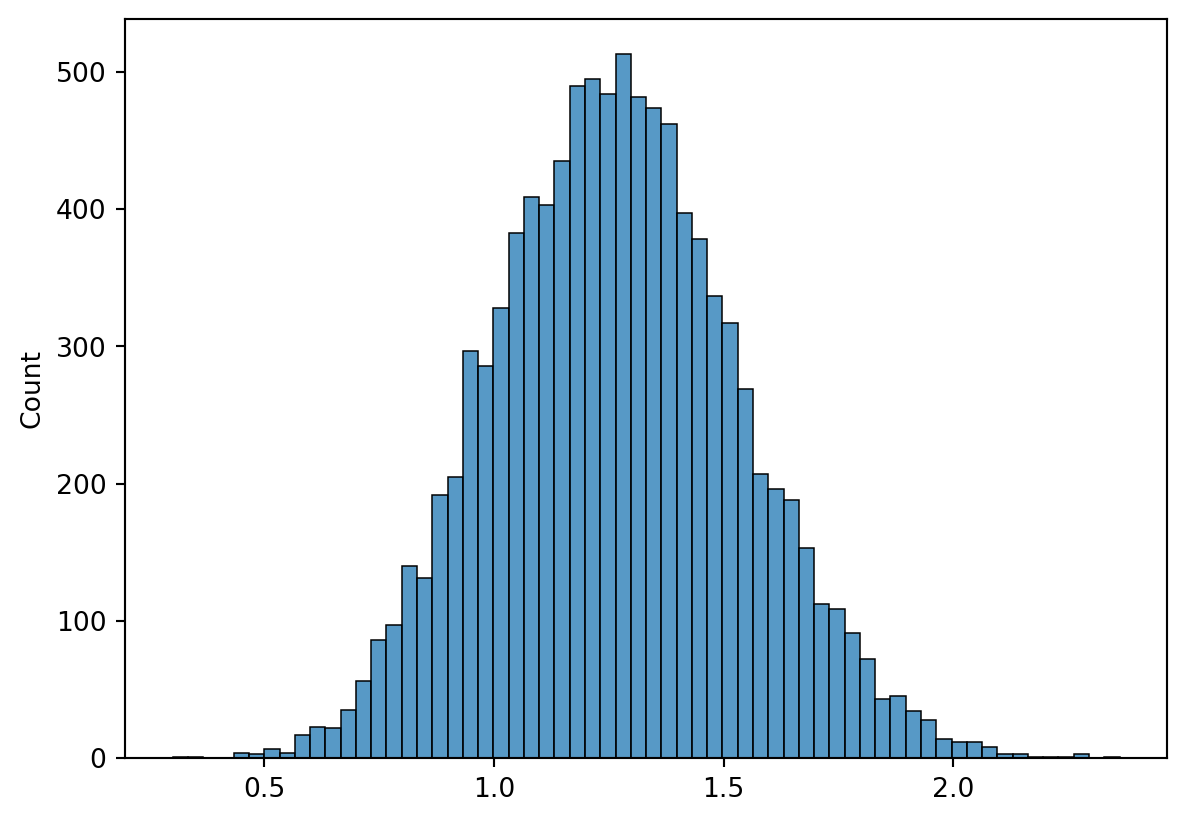
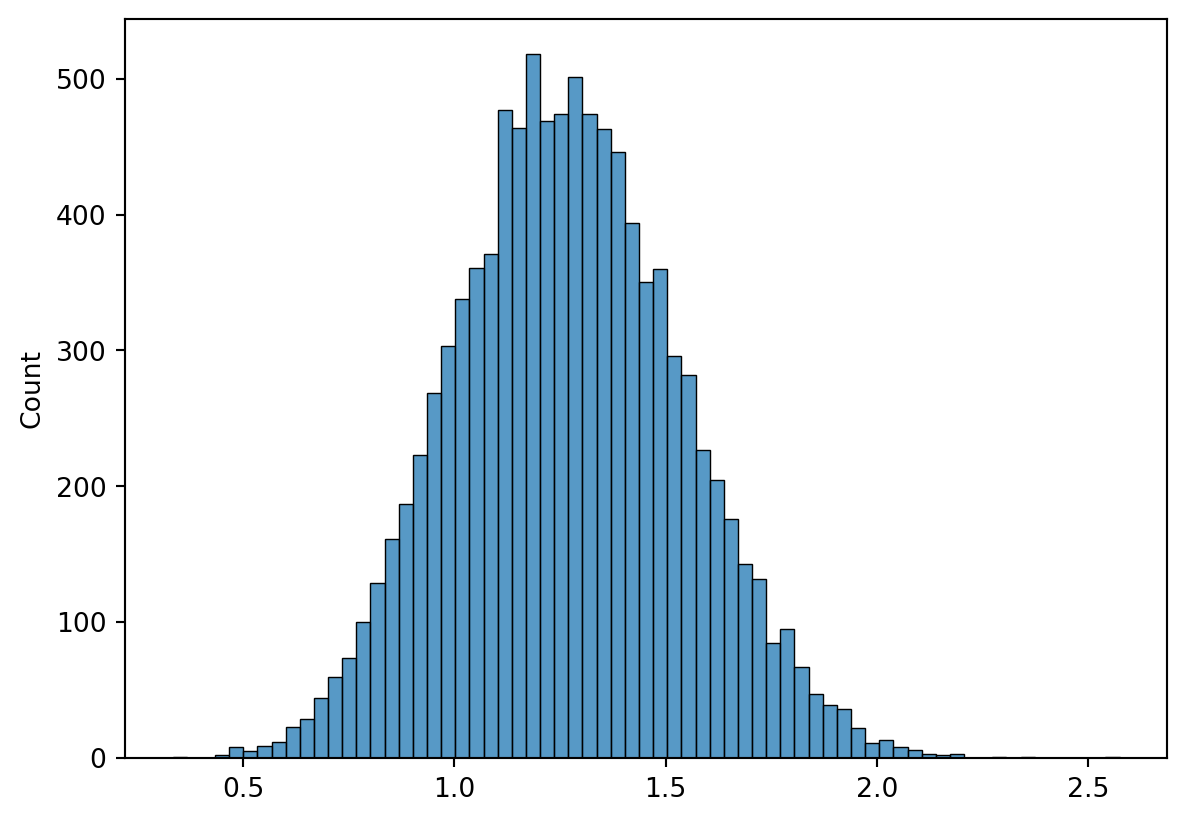
hw5찐

diff --git a/docs/posts/hw5/hw5.html b/docs/posts/hw5/hw5.html
@@ -180,7 +180,17 @@ pre > code.sourceCode > span > a:first-child::before { text-decoration: underlin
 <!-- sidebar -->
 <!-- margin-sidebar -->
     <div id="quarto-margin-sidebar" class="sidebar margin-sidebar">
-        
+        <nav id="TOC" role="doc-toc" class="toc-active">
+    <h2 id="toc-title">On this page</h2>
+   
+  <ul>
+  <li><a href="#균일분포-3-7에서-20개의-표본을-뽑아서-분산을-2가지-방법으로-추정해보세요." id="toc-균일분포-3-7에서-20개의-표본을-뽑아서-분산을-2가지-방법으로-추정해보세요." class="nav-link active" data-scroll-target="#균일분포-3-7에서-20개의-표본을-뽑아서-분산을-2가지-방법으로-추정해보세요.">균일분포 (3, 7)에서 20개의 표본을 뽑아서 분산을 2가지 방법으로 추정해보세요.</a></li>
+  <li><a href="#n-1로-나눈-것을-s_2-n으로-나눈-것을-k_2로-정의하고" id="toc-n-1로-나눈-것을-s_2-n으로-나눈-것을-k_2로-정의하고" class="nav-link" data-scroll-target="#n-1로-나눈-것을-s_2-n으로-나눈-것을-k_2로-정의하고">n-1로 나눈 것을 s_2, n으로 나눈 것을 k_2로 정의하고,</a></li>
+  <li><a href="#s_2의-분포와-k_2의-분포를-그려주세요-10000개-사용" id="toc-s_2의-분포와-k_2의-분포를-그려주세요-10000개-사용" class="nav-link" data-scroll-target="#s_2의-분포와-k_2의-분포를-그려주세요-10000개-사용">s_2의 분포와 k_2의 분포를 그려주세요! (10000개 사용)</a></li>
+  <li><a href="#각-분포-그래프에-모분산의-위치에-녹색-막대를-그려주세요." id="toc-각-분포-그래프에-모분산의-위치에-녹색-막대를-그려주세요." class="nav-link" data-scroll-target="#각-분포-그래프에-모분산의-위치에-녹색-막대를-그려주세요.">각 분포 그래프에 모분산의 위치에 녹색 막대를 그려주세요.</a></li>
+  <li><a href="#결과를-살펴보고-왜-n-1로-나눈-것을-분산을-추정하는-지표로-사용하는-것이-타당한지-써주세요" id="toc-결과를-살펴보고-왜-n-1로-나눈-것을-분산을-추정하는-지표로-사용하는-것이-타당한지-써주세요" class="nav-link" data-scroll-target="#결과를-살펴보고-왜-n-1로-나눈-것을-분산을-추정하는-지표로-사용하는-것이-타당한지-써주세요">결과를 살펴보고, 왜 n-1로 나눈 것을 분산을 추정하는 지표로 사용하는 것이 타당한지 써주세요!</a></li>
+  </ul>
+</nav>
     </div>
 <!-- main -->
 <main class="content quarto-banner-title-block" id="quarto-document-content">
@@ -189,57 +199,64 @@ pre > code.sourceCode > span > a:first-child::before { text-decoration: underlin
 
 
 
-<p>##균일분포 (3, 7)에서 20개의 표본을 뽑아서 분산을 2가지 방법으로 추정해보세요. X ~ 균일분포U(a , b) loc:a, scale: b-a</p>
-<div id="aeb582e2" class="cell" data-execution_count="1">
+<section id="균일분포-3-7에서-20개의-표본을-뽑아서-분산을-2가지-방법으로-추정해보세요." class="level2">
+<h2 class="anchored" data-anchor-id="균일분포-3-7에서-20개의-표본을-뽑아서-분산을-2가지-방법으로-추정해보세요.">균일분포 (3, 7)에서 20개의 표본을 뽑아서 분산을 2가지 방법으로 추정해보세요.</h2>
+<p>X ~ 균일분포U(a , b) loc:a, scale: b-a</p>
+<div id="9e22b082" class="cell" data-execution_count="1">
 <div class="sourceCode cell-code" id="cb1"><pre class="sourceCode python code-with-copy"><code class="sourceCode python"><span id="cb1-1"><a href="#cb1-1" aria-hidden="true" tabindex="-1"></a><span class="im">from</span> scipy.stats <span class="im">import</span> uniform</span>
 <span id="cb1-2"><a href="#cb1-2" aria-hidden="true" tabindex="-1"></a><span class="im">import</span> matplotlib.pyplot <span class="im">as</span> plt</span>
 <span id="cb1-3"><a href="#cb1-3" aria-hidden="true" tabindex="-1"></a><span class="im">import</span> numpy <span class="im">as</span> np</span>
 <span id="cb1-4"><a href="#cb1-4" aria-hidden="true" tabindex="-1"></a><span class="im">import</span> seaborn <span class="im">as</span> sns</span>
 <span id="cb1-5"><a href="#cb1-5" aria-hidden="true" tabindex="-1"></a></span>
-<span id="cb1-6"><a href="#cb1-6" aria-hidden="true" tabindex="-1"></a>x<span class="op">=</span>uniform.rvs(loc<span class="op">=</span><span class="dv">3</span>, scale<span class="op">=</span><span class="dv">4</span>, size<span class="op">=</span><span class="dv">20</span><span class="op">*</span><span class="dv">1000</span>)</span>
+<span id="cb1-6"><a href="#cb1-6" aria-hidden="true" tabindex="-1"></a>x<span class="op">=</span>uniform.rvs(loc<span class="op">=</span><span class="dv">3</span>, scale<span class="op">=</span><span class="dv">4</span>, size<span class="op">=</span><span class="dv">20</span><span class="op">*</span><span class="dv">10000</span>)</span>
 <span id="cb1-7"><a href="#cb1-7" aria-hidden="true" tabindex="-1"></a>x <span class="op">=</span> x.reshape(<span class="op">-</span><span class="dv">1</span>, <span class="dv">20</span>)</span>
 <span id="cb1-8"><a href="#cb1-8" aria-hidden="true" tabindex="-1"></a>x</span></code><button title="Copy to Clipboard" class="code-copy-button"><i class="bi"></i></button></pre></div>
-<div class="cell-output cell-output-display" data-execution_count="28">
-<pre><code>array([[5.29330147, 4.39428352, 6.42822502, ..., 6.79057362, 5.55651221,
-        3.34313017],
-       [6.4768073 , 5.65541085, 6.21875244, ..., 5.4944167 , 3.07273137,
-        5.29697908],
-       [3.01763699, 3.2014101 , 3.29594486, ..., 6.43641162, 3.80152935,
-        4.7324298 ],
+<div class="cell-output cell-output-display" data-execution_count="1">
+<pre><code>array([[3.76120239, 5.25476795, 5.98354159, ..., 5.52052282, 3.46331313,
+        6.36304209],
+       [3.81230237, 5.47790013, 3.54644336, ..., 4.05912271, 4.00232046,
+        4.28419153],
+       [6.87806623, 5.42743101, 5.81590237, ..., 4.85009972, 4.91928014,
+        6.30225275],
        ...,
-       [5.80273626, 4.6790122 , 4.35367356, ..., 3.0799694 , 3.95011226,
-        4.1199749 ],
-       [5.34546413, 4.10100921, 5.12237651, ..., 4.36858918, 6.31719593,
-        4.1387256 ],
-       [5.11046292, 4.54138216, 6.69584978, ..., 6.21739402, 5.13995442,
-        4.68177049]])</code></pre>
+       [3.04980015, 6.81277037, 6.09363572, ..., 4.42111548, 4.91361723,
+        6.45642442],
+       [4.21226644, 4.96664346, 3.23419205, ..., 5.87233621, 3.55780867,
+        4.56675508],
+       [4.58561676, 5.84064522, 4.09444228, ..., 6.49314178, 6.19412452,
+        3.36168373]])</code></pre>
 </div>
 </div>
-<p>##n-1로 나눈 것을 s_2, n으로 나눈 것을 k_2로 정의하고, n-1로 나눈 것을 s_2</p>
-<div id="f83c2b8b" class="cell" data-execution_count="2">
-<div class="sourceCode cell-code" id="cb3"><pre class="sourceCode python code-with-copy"><code class="sourceCode python"><span id="cb3-1"><a href="#cb3-1" aria-hidden="true" tabindex="-1"></a>x<span class="op">=</span>uniform.rvs(loc<span class="op">=</span><span class="dv">3</span>, scale<span class="op">=</span><span class="dv">4</span>, size<span class="op">=</span><span class="dv">20</span><span class="op">*</span><span class="dv">1000</span>)</span>
+</section>
+<section id="n-1로-나눈-것을-s_2-n으로-나눈-것을-k_2로-정의하고" class="level2">
+<h2 class="anchored" data-anchor-id="n-1로-나눈-것을-s_2-n으로-나눈-것을-k_2로-정의하고">n-1로 나눈 것을 s_2, n으로 나눈 것을 k_2로 정의하고,</h2>
+<p>n-1로 나눈 것을 s_2</p>
+<div id="37f7f106" class="cell" data-execution_count="2">
+<div class="sourceCode cell-code" id="cb3"><pre class="sourceCode python code-with-copy"><code class="sourceCode python"><span id="cb3-1"><a href="#cb3-1" aria-hidden="true" tabindex="-1"></a>x<span class="op">=</span>uniform.rvs(loc<span class="op">=</span><span class="dv">3</span>, scale<span class="op">=</span><span class="dv">4</span>, size<span class="op">=</span><span class="dv">20</span><span class="op">*</span><span class="dv">10000</span>)</span>
 <span id="cb3-2"><a href="#cb3-2" aria-hidden="true" tabindex="-1"></a>x <span class="op">=</span> x.reshape(<span class="op">-</span><span class="dv">1</span>, <span class="dv">20</span>)</span>
 <span id="cb3-3"><a href="#cb3-3" aria-hidden="true" tabindex="-1"></a>x</span>
 <span id="cb3-4"><a href="#cb3-4" aria-hidden="true" tabindex="-1"></a>s_2<span class="op">=</span>np.var(x, ddof<span class="op">=</span><span class="dv">1</span>)</span>
 <span id="cb3-5"><a href="#cb3-5" aria-hidden="true" tabindex="-1"></a>s_2</span></code><button title="Copy to Clipboard" class="code-copy-button"><i class="bi"></i></button></pre></div>
-<div class="cell-output cell-output-display" data-execution_count="29">
-<pre><code>np.float64(1.3387673411292365)</code></pre>
+<div class="cell-output cell-output-display" data-execution_count="2">
+<pre><code>np.float64(1.3307334304699165)</code></pre>
 </div>
 </div>
 <p>n으로 나눈 것을 k_2</p>
-<div id="20499d30" class="cell" data-execution_count="3">
-<div class="sourceCode cell-code" id="cb5"><pre class="sourceCode python code-with-copy"><code class="sourceCode python"><span id="cb5-1"><a href="#cb5-1" aria-hidden="true" tabindex="-1"></a>x<span class="op">=</span>uniform.rvs(loc<span class="op">=</span><span class="dv">3</span>, scale<span class="op">=</span><span class="dv">4</span>, size<span class="op">=</span><span class="dv">20</span><span class="op">*</span><span class="dv">1000</span>)</span>
+<div id="d58b95ad" class="cell" data-execution_count="3">
+<div class="sourceCode cell-code" id="cb5"><pre class="sourceCode python code-with-copy"><code class="sourceCode python"><span id="cb5-1"><a href="#cb5-1" aria-hidden="true" tabindex="-1"></a>x<span class="op">=</span>uniform.rvs(loc<span class="op">=</span><span class="dv">3</span>, scale<span class="op">=</span><span class="dv">4</span>, size<span class="op">=</span><span class="dv">20</span><span class="op">*</span><span class="dv">10000</span>)</span>
 <span id="cb5-2"><a href="#cb5-2" aria-hidden="true" tabindex="-1"></a>x <span class="op">=</span> x.reshape(<span class="op">-</span><span class="dv">1</span>, <span class="dv">20</span>)</span>
 <span id="cb5-3"><a href="#cb5-3" aria-hidden="true" tabindex="-1"></a>x</span>
 <span id="cb5-4"><a href="#cb5-4" aria-hidden="true" tabindex="-1"></a>k_2<span class="op">=</span>np.var(x,ddof<span class="op">=</span><span class="dv">0</span>)</span>
 <span id="cb5-5"><a href="#cb5-5" aria-hidden="true" tabindex="-1"></a>k_2</span></code><button title="Copy to Clipboard" class="code-copy-button"><i class="bi"></i></button></pre></div>
-<div class="cell-output cell-output-display" data-execution_count="30">
-<pre><code>np.float64(1.338168109779997)</code></pre>
+<div class="cell-output cell-output-display" data-execution_count="3">
+<pre><code>np.float64(1.3362906966463965)</code></pre>
 </div>
 </div>
-<p>##s_2의 분포와 k_2의 분포를 그려주세요! (10000개 사용)</p>
+</section>
+<section id="s_2의-분포와-k_2의-분포를-그려주세요-10000개-사용" class="level2">
+<h2 class="anchored" data-anchor-id="s_2의-분포와-k_2의-분포를-그려주세요-10000개-사용">s_2의 분포와 k_2의 분포를 그려주세요! (10000개 사용)</h2>
 <p>S_2의 분포</p>
-<div id="1374009d" class="cell" data-execution_count="4">
+<div id="eaa7c14c" class="cell" data-execution_count="4">
 <div class="sourceCode cell-code" id="cb7"><pre class="sourceCode python code-with-copy"><code class="sourceCode python"><span id="cb7-1"><a href="#cb7-1" aria-hidden="true" tabindex="-1"></a>x<span class="op">=</span>uniform.rvs(loc<span class="op">=</span><span class="dv">3</span>, scale<span class="op">=</span><span class="dv">4</span>, size<span class="op">=</span><span class="dv">20</span><span class="op">*</span><span class="dv">10000</span>)</span>
 <span id="cb7-2"><a href="#cb7-2" aria-hidden="true" tabindex="-1"></a>x <span class="op">=</span> x.reshape(<span class="op">-</span><span class="dv">1</span>, <span class="dv">20</span>)</span>
 <span id="cb7-3"><a href="#cb7-3" aria-hidden="true" tabindex="-1"></a>x.shape</span>
@@ -260,7 +277,7 @@ pre > code.sourceCode > span > a:first-child::before { text-decoration: underlin
 </div>
 </div>
 <p>k_2의 분포</p>
-<div id="06e21d7b" class="cell" data-execution_count="5">
+<div id="0991365c" class="cell" data-execution_count="5">
 <div class="sourceCode cell-code" id="cb9"><pre class="sourceCode python code-with-copy"><code class="sourceCode python"><span id="cb9-1"><a href="#cb9-1" aria-hidden="true" tabindex="-1"></a>x<span class="op">=</span>uniform.rvs(loc<span class="op">=</span><span class="dv">3</span>, scale<span class="op">=</span><span class="dv">4</span>, size<span class="op">=</span><span class="dv">20</span><span class="op">*</span><span class="dv">10000</span>)</span>
 <span id="cb9-2"><a href="#cb9-2" aria-hidden="true" tabindex="-1"></a>x <span class="op">=</span> x.reshape(<span class="op">-</span><span class="dv">1</span>, <span class="dv">20</span>)</span>
 <span id="cb9-3"><a href="#cb9-3" aria-hidden="true" tabindex="-1"></a>x.shape</span>
@@ -280,8 +297,11 @@ pre > code.sourceCode > span > a:first-child::before { text-decoration: underlin
 <pre><code>&lt;Figure size 672x480 with 0 Axes&gt;</code></pre>
 </div>
 </div>
-<p>##각 분포 그래프에 모분산의 위치에 녹색 막대를 그려주세요. s_2의 분포</p>
-<div id="855955e5" class="cell" data-execution_count="6">
+</section>
+<section id="각-분포-그래프에-모분산의-위치에-녹색-막대를-그려주세요." class="level2">
+<h2 class="anchored" data-anchor-id="각-분포-그래프에-모분산의-위치에-녹색-막대를-그려주세요.">각 분포 그래프에 모분산의 위치에 녹색 막대를 그려주세요.</h2>
+<p>s_2의 분포</p>
+<div id="1150c135" class="cell" data-execution_count="6">
 <div class="sourceCode cell-code" id="cb11"><pre class="sourceCode python code-with-copy"><code class="sourceCode python"><span id="cb11-1"><a href="#cb11-1" aria-hidden="true" tabindex="-1"></a>x<span class="op">=</span>uniform.rvs(loc<span class="op">=</span><span class="dv">3</span>, scale<span class="op">=</span><span class="dv">4</span>, size<span class="op">=</span><span class="dv">20</span><span class="op">*</span><span class="dv">10000</span>)</span>
 <span id="cb11-2"><a href="#cb11-2" aria-hidden="true" tabindex="-1"></a>x <span class="op">=</span> x.reshape(<span class="op">-</span><span class="dv">1</span>, <span class="dv">20</span>)</span>
 <span id="cb11-3"><a href="#cb11-3" aria-hidden="true" tabindex="-1"></a>s_2<span class="op">=</span>np.var(x, ddof<span class="op">=</span><span class="dv">1</span>, axis<span class="op">=</span><span class="dv">1</span>)</span>
@@ -303,7 +323,7 @@ pre > code.sourceCode > span > a:first-child::before { text-decoration: underlin
 </div>
 </div>
 <p>k_2의 분포</p>
-<div id="4c8e4bdd" class="cell" data-execution_count="7">
+<div id="77542fa6" class="cell" data-execution_count="7">
 <div class="sourceCode cell-code" id="cb13"><pre class="sourceCode python code-with-copy"><code class="sourceCode python"><span id="cb13-1"><a href="#cb13-1" aria-hidden="true" tabindex="-1"></a>x<span class="op">=</span>uniform.rvs(loc<span class="op">=</span><span class="dv">3</span>, scale<span class="op">=</span><span class="dv">4</span>, size<span class="op">=</span><span class="dv">20</span><span class="op">*</span><span class="dv">10000</span>)</span>
 <span id="cb13-2"><a href="#cb13-2" aria-hidden="true" tabindex="-1"></a>x <span class="op">=</span> x.reshape(<span class="op">-</span><span class="dv">1</span>, <span class="dv">20</span>)</span>
 <span id="cb13-3"><a href="#cb13-3" aria-hidden="true" tabindex="-1"></a>k_2<span class="op">=</span>np.var(x, ddof<span class="op">=</span><span class="dv">0</span>, axis<span class="op">=</span><span class="dv">1</span>)</span>
@@ -324,9 +344,13 @@ pre > code.sourceCode > span > a:first-child::before { text-decoration: underlin
 <pre><code>&lt;Figure size 672x480 with 0 Axes&gt;</code></pre>
 </div>
 </div>
-<p>##결과를 살펴보고, 왜 n-1로 나눈 것을 ##분산을 추정하는 지표로 사용하는 것이 타당한지 써주세요!</p>
+</section>
+<section id="결과를-살펴보고-왜-n-1로-나눈-것을-분산을-추정하는-지표로-사용하는-것이-타당한지-써주세요" class="level1">
+<h1>결과를 살펴보고, 왜 n-1로 나눈 것을 분산을 추정하는 지표로 사용하는 것이 타당한지 써주세요!</h1>
+<p>모분산의 값이 n으로 나눈 값에서 중심을 잡는 것 보다 n-1로 나눈 값에서 중심을 잡는 것이 더 정확한 모습을 보여주기 때문이다.</p>
 
 
+</section>
 
 </main> <!-- /main -->
 <script id="quarto-html-after-body" type="application/javascript">

diff --git a/docs/blog.html b/docs/blog.html
@@ -330,7 +330,7 @@ bigdata
 </a>
 </div>
 </div>
-<div class="quarto-post image-right" data-index="4" data-categories="bigdata" data-listing-file-modified-sort="1722263655447" data-listing-reading-time-sort="1" data-listing-word-count-sort="146">
+<div class="quarto-post image-right" data-index="4" data-categories="bigdata" data-listing-file-modified-sort="1722264727753" data-listing-reading-time-sort="1" data-listing-word-count-sort="160">
 <div class="thumbnail">
 <p><a href="./posts/hw5/hw5.html" class="no-external"></a></p><a href="./posts/hw5/hw5.html" class="no-external">
 <p class="card-img-top"><img src="posts\hw5\hw5_files\figure-html\cell-5-output-1.png"  class="thumbnail-image card-img"/></p>
@@ -349,7 +349,7 @@ bigdata
 </div>
 </div>
 <div class="listing-description">
-<a href="./posts/hw5/hw5.html" class="no-external">##균일분포 (3, 7)에서 20개의 표본을 뽑아서 분산을 2가지 방법으로 추정해보세요. X ~ 균일분포U(a , b) loc:a, scale: b-a</a>
+<a href="./posts/hw5/hw5.html" class="no-external">X ~ 균일분포U(a , b) loc:a, scale: b-a</a>
 </div>
 </div>
 <div class="metadata">
